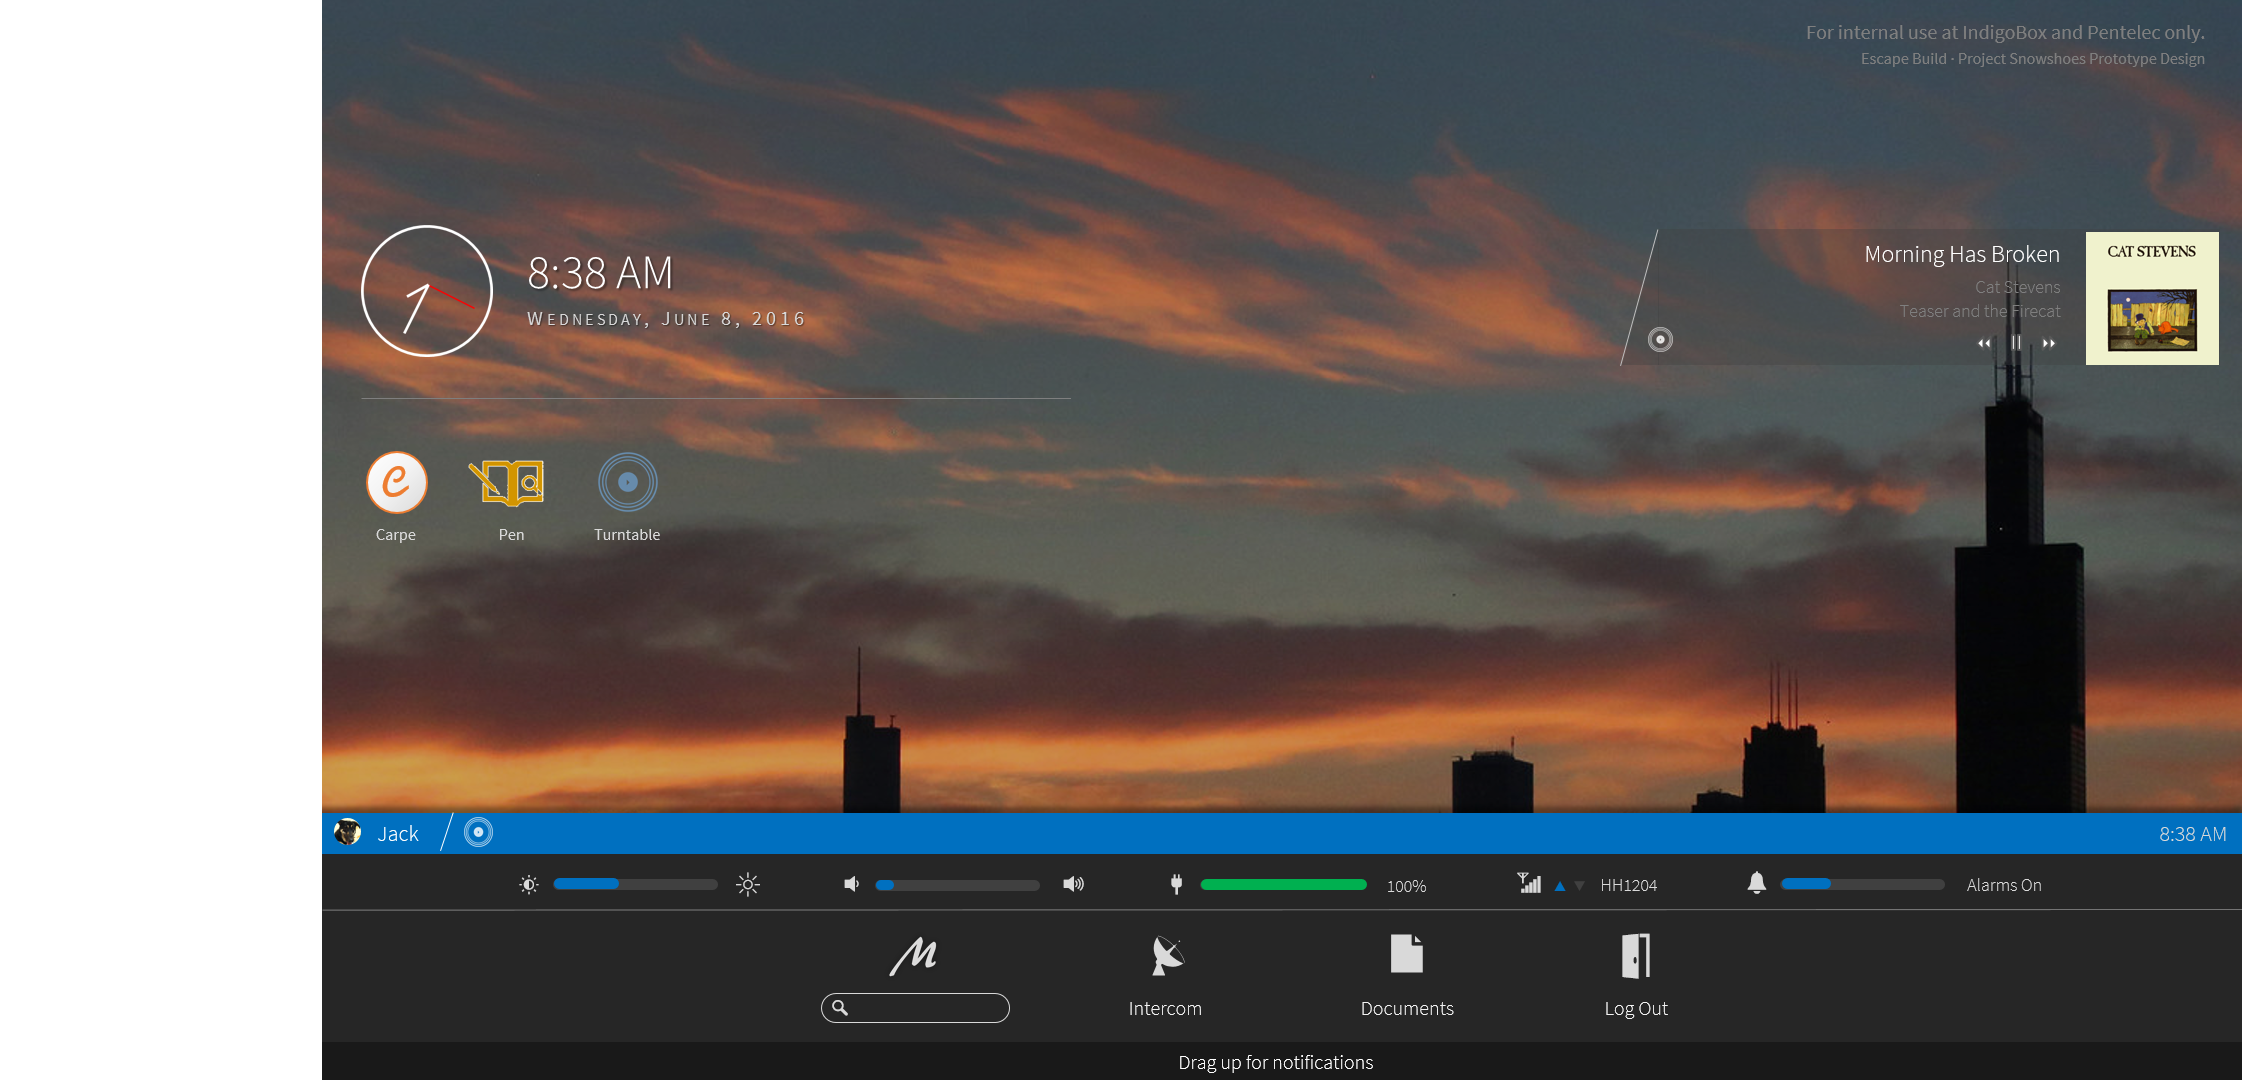
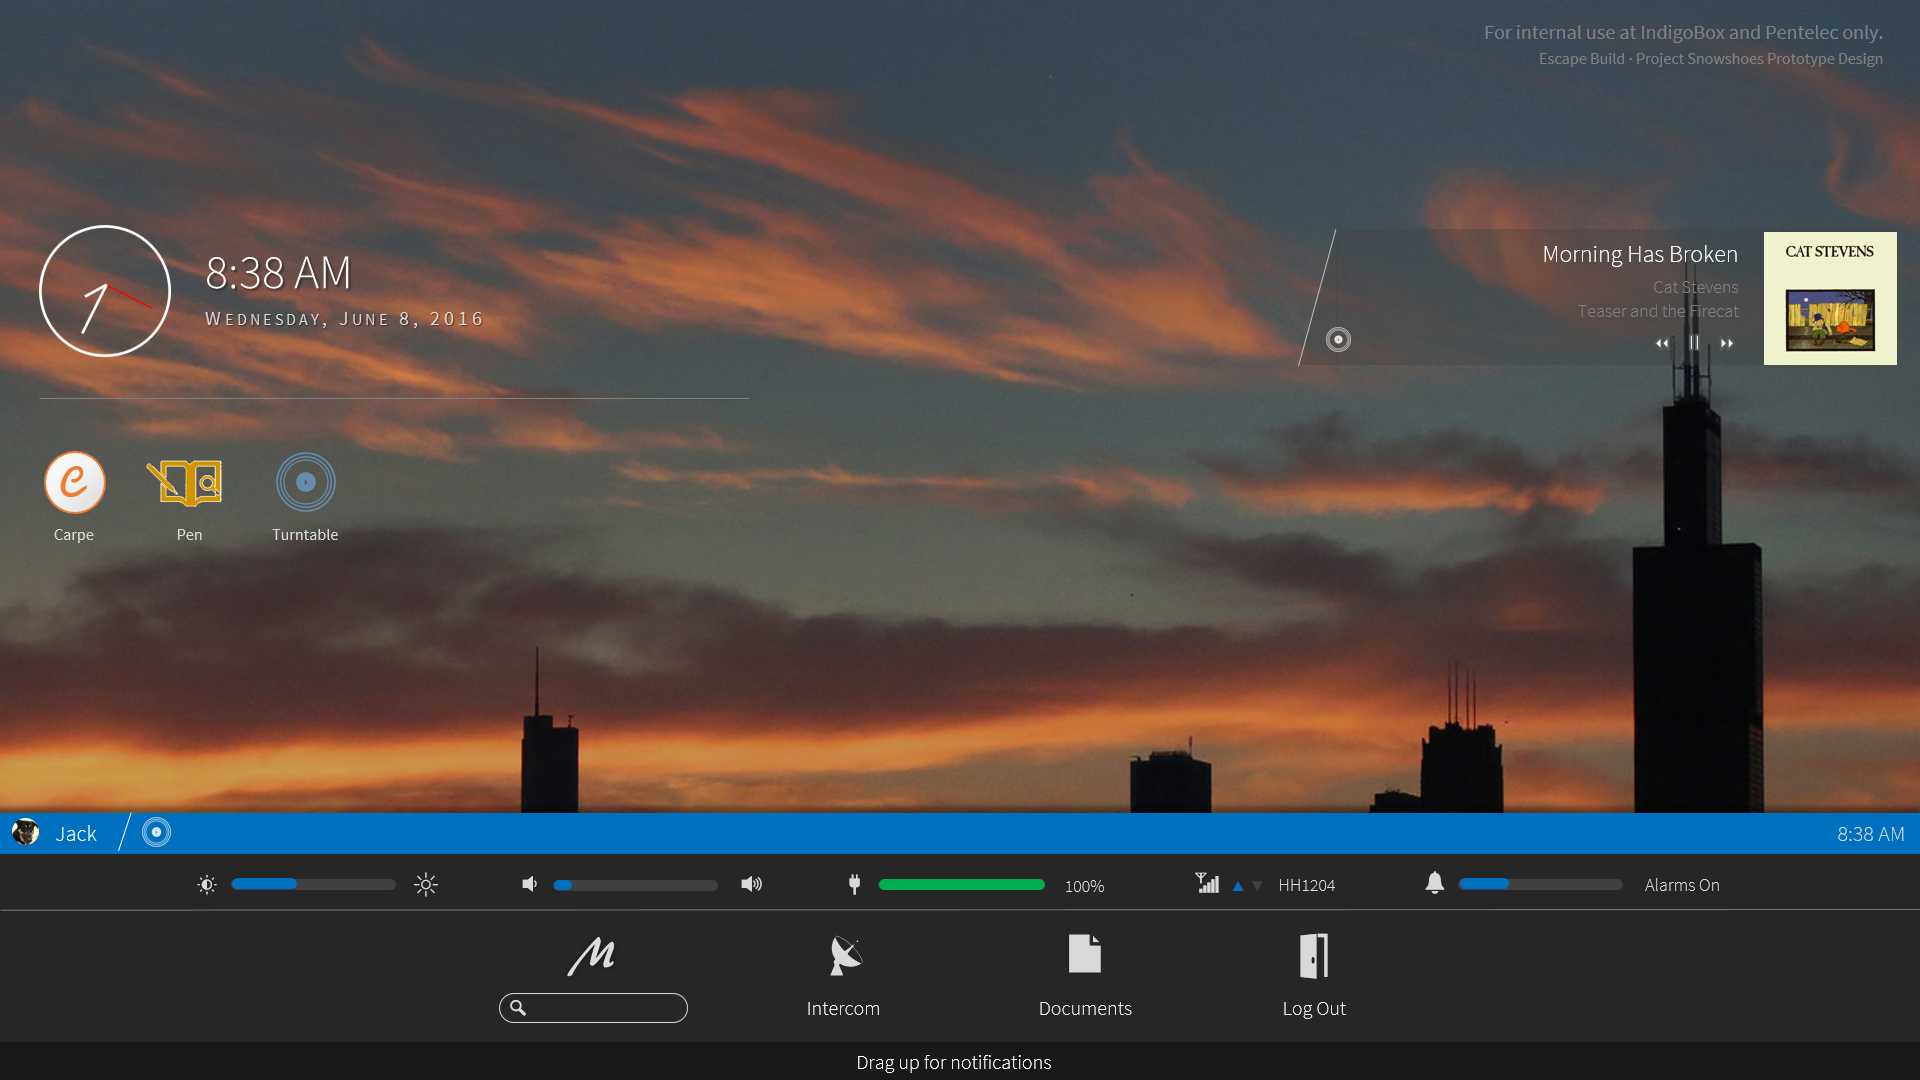
Repaired Tiling on Home, Replaced Home Snowshoes
That is, the front image for Snowshoes was modified, and a cover was
used. Smol commit again.

diff --git a/new/css/index.css b/new/css/index.css
@@ -16,6 +16,7 @@ body {
     background-position: center;
     background-size: 1920px 100%;
     background-position: 0%;
+
     -webkit-transition: background-image 0.2s ease-in-out;
     transition: background-image 0.2s ease-in-out;
 }
@@ -68,7 +69,7 @@ body {
 
 /* Style the background */
 .bg-switcher {
-    background-size: auto 100% !important;
+    background-size: cover  !important;
     background-position: center center !important;
     -webkit-filter: brightness(60%);
     filter: brightness(60%);

diff --git a/new/js/carousel.js b/new/js/carousel.js
@@ -17,7 +17,7 @@ setInterval(ctoggle,4000);
 
 var slide = 0;
 // This is weird. JS arrays are weird. Can we just go back to C already?
-var img = ["./img/carpe-schedule.png","./img/snowshoes.png"];
+var img = ["./img/carpe-schedule.png","./img/snowshoes1.png"];
 var pname = ["Carpe","Snowshoes"];
 var descrip = ["Social scheduling for individuals and businesses","Windows like you've never seen it before"];
 var a = ["./carpe.html","./snowshoes.html"];
